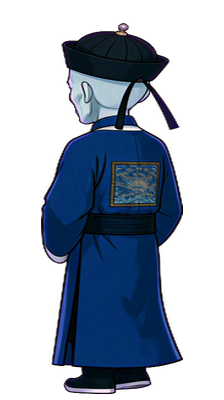
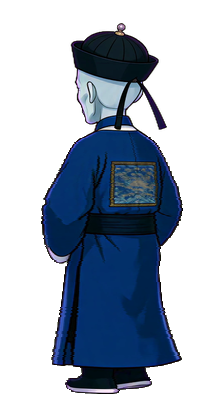
fix(ch01): 太监改为只加宽身体、头部保持原样
用户反馈：v0.1.5 里太监停顿向西北/东北张望时变宽了。
根因：上一版整张横向 ×1.22，把头/帽子也撑宽了；斜向姿态头部占比最大、原本最窄，
所以那个方向最刺眼。

改为逐行缩放：顶部 30% 系数 1（头不动），往下 14% 线性过渡到 1.22，躯干恒定；
纵向不动。静态与行走同参数，站立↔行走不跳。
另加逐方向安全系数：按该方向最宽一行反推，避免放大后超帧宽被裁
（down_right 手张开那组只能到 1.115）。

验收：头部宽度八向全部不变；行走 sheet 3840 宽、无空帧、无触边、波动<6%；213 tests 绿。

diff --git a/tools/widen-cast.py b/tools/widen-cast.py
@@ -1,13 +1,16 @@
 #!/usr/bin/env python3
-"""把某个角色横向加宽一点（只改宽度、不改高度）。
+"""把某个角色**只加宽身体**（头部保持原样）。
 
-用途：Q 版人形角色统一按「内容高 = 371」归一化之后，先天画得瘦的角色会显得像纸片人
-（实测太监静态宽/高比只有 0.30–0.38，而御厨 0.60、门卫 0.53）。
-横向拉伸是**非等比**的，但整组按同一系数、静态和行走一起改，所以：
-- 站立 ↔ 行走不会跳；
-- 转身时各方向的原始差异仍然保留（不会变成"每个方向一样宽"）。
+为什么不是整张横向拉伸：Q 版角色的头占全身约 1/3，整张 ×1.22 会把脸和帽子也撑宽，
+那个方向看起来就"变胖变宽"了（2026-11-02 用户反馈：太监停顿张望时变宽）。
 
-锚点：内容水平居中、脚底贴 `FIGURE_BOTTOM`，与 normalize-walk-sheet.py 一致。
+做法：**逐行**横向缩放，缩放系数随 y 变化——
+  - 头部区域（内容顶部 `--head-ratio` 的那一段）系数 = 1，一点不动；
+  - 再往下 `--ramp` 的高度内线性过渡到目标系数；
+  - 躯干与下摆恒定目标系数。
+纵向完全不动，所以高度、脚底位置、行走帧的上下起伏都不受影响。
+
+静态 PNG 与行走 sheet 用同一套参数处理，站立 ↔ 行走不会跳。
 """
 
 from __future__ import annotations
@@ -31,30 +34,78 @@ def bbox(arr: np.ndarray) -> tuple[int, int, int, int]:
     return (int(xs.min()), int(ys.min()), int(xs.max()) + 1, int(ys.max()) + 1)
 
 
-def widen_image(im: Image.Image, factor: float, cell_w: int) -> Image.Image:
-    """把整张图里每个 cell 的内容横向拉伸，保持高度与脚底位置。"""
+def widen_body(im: Image.Image, factor: float, cell_w: int, head_ratio: float, ramp: float) -> Image.Image:
     w, h = im.size
     cells = max(1, w // cell_w)
     out = Image.new("RGBA", (w, h), (0, 0, 0, 0))
-    for i in range(cells):
-        cell = im.crop((i * cell_w, 0, (i + 1) * cell_w, h))
-        box = bbox(np.array(cell.split()[3]))
+    clamped: list[float] = []
+
+    for c in range(cells):
+        cell = im.crop((c * cell_w, 0, (c + 1) * cell_w, h))
+        arr = np.array(cell)
+        alpha = arr[:, :, 3]
+        box = bbox(alpha)
         if box[2] - box[0] <= 0:
             continue
-        content = cell.crop(box)
-        nw = min(cell_w - MARGIN * 2, max(1, round(content.width * factor)))
-        content = content.resize((nw, content.height), Image.Resampling.LANCZOS)
-        x = i * cell_w + (cell_w - nw) // 2
-        y = FIGURE_BOTTOM - content.height
-        out.alpha_composite(content, (max(0, x), max(0, y)))
-    return out
+        top, bottom = box[1], box[3]
+        height = bottom - top
+
+        # 先按"最宽的那一行"算安全系数：放大后不能超出单帧宽度，否则会裁掉手。
+        widest = 0
+        for y in range(top, bottom):
+            xs_row = np.nonzero(alpha[y] > ALPHA)[0]
+            if len(xs_row):
+                widest = max(widest, int(xs_row.max() - xs_row.min() + 1))
+        safe = min(factor, (cell_w - MARGIN * 2) / widest) if widest else factor
+        if safe < 1.0:
+            safe = 1.0
+        clamped.append(round(safe, 3))
+
+        head_end = top + height * head_ratio
+        ramp_end = head_end + height * ramp
+
+        src = Image.fromarray(arr)
+        rows = []
+        for y in range(h):
+            row = src.crop((0, y, cell_w, y + 1))
+            if y <= head_end:
+                s = 1.0
+            elif y >= ramp_end:
+                s = safe
+            else:
+                t = (y - head_end) / max(1e-6, ramp_end - head_end)
+                s = 1.0 + (safe - 1.0) * t
+            if abs(s - 1.0) < 1e-3:
+                rows.append(row)
+                continue
+            # 这一行的内容水平范围，围绕它的中心放大
+            line = np.array(row)[0, :, 3]
+            xs = np.nonzero(line > ALPHA)[0]
+            if len(xs) == 0:
+                rows.append(row)
+                continue
+            x0, x1 = int(xs.min()), int(xs.max()) + 1
+            content = row.crop((x0, 0, x1, 1))
+            nw = min(cell_w - MARGIN * 2, max(1, round(content.width * s)))
+            content = content.resize((nw, 1), Image.Resampling.BICUBIC)
+            cx = c * cell_w + (x0 + x1) // 2
+            x = min(max(c * cell_w, cx - nw // 2), (c + 1) * cell_w - nw)
+            row = Image.new("RGBA", (cell_w, 1), (0, 0, 0, 0))
+            row.paste(content, (x - c * cell_w, 0))
+            rows.append(row)
+
+        for y, row in enumerate(rows):
+            out.alpha_composite(row, (c * cell_w, y))
+    return out, clamped
 
 
 def main() -> None:
-    p = argparse.ArgumentParser(description="角色横向加宽（静态 PNG + 行走 sheet 同步）")
+    p = argparse.ArgumentParser(description="角色只加宽身体（头不动）")
     p.add_argument("--dir", type=Path, required=True)
     p.add_argument("--slug", required=True)
-    p.add_argument("--factor", type=float, required=True, help="横向放大倍数，例如 1.22")
+    p.add_argument("--factor", type=float, required=True, help="躯干横向放大倍数，例如 1.22")
+    p.add_argument("--head-ratio", type=float, default=0.30, help="顶部不动的高度占比（默认 0.30）")
+    p.add_argument("--ramp", type=float, default=0.14, help="过渡段高度占比（默认 0.14）")
     p.add_argument("--static-frame", default="224x400")
     p.add_argument("--walk-frame", default="192x400")
     args = p.parse_args()
@@ -66,12 +117,15 @@ def main() -> None:
         static = args.dir / f"{args.slug}_{d}.png"
         if static.exists():
             im = Image.open(static).convert("RGBA")
-            widen_image(im, args.factor, static_w).save(static, "PNG")
+            img_out, cl = widen_body(im, args.factor, static_w, args.head_ratio, args.ramp)
+            img_out.save(static, "PNG")
+            print(f"[body-widen] {d:11s} 安全系数={min(cl) if cl else 1.0}")
         sheet = args.dir / f"{args.slug}_walk_{d}.webp"
         if sheet.exists():
             im = Image.open(sheet).convert("RGBA")
-            widen_image(im, args.factor, walk_w).save(sheet, "WEBP", quality=78, method=6)
-        print(f"[widen] {d:11s} x{args.factor}")
+            img_out, cl = widen_body(im, args.factor, walk_w, args.head_ratio, args.ramp)
+            img_out.save(sheet, "WEBP", quality=78, method=6)
+            print(f"[body-widen] {d:11s} sheet 安全系数={min(cl) if cl else 1.0}")
 
 
 if __name__ == "__main__":
